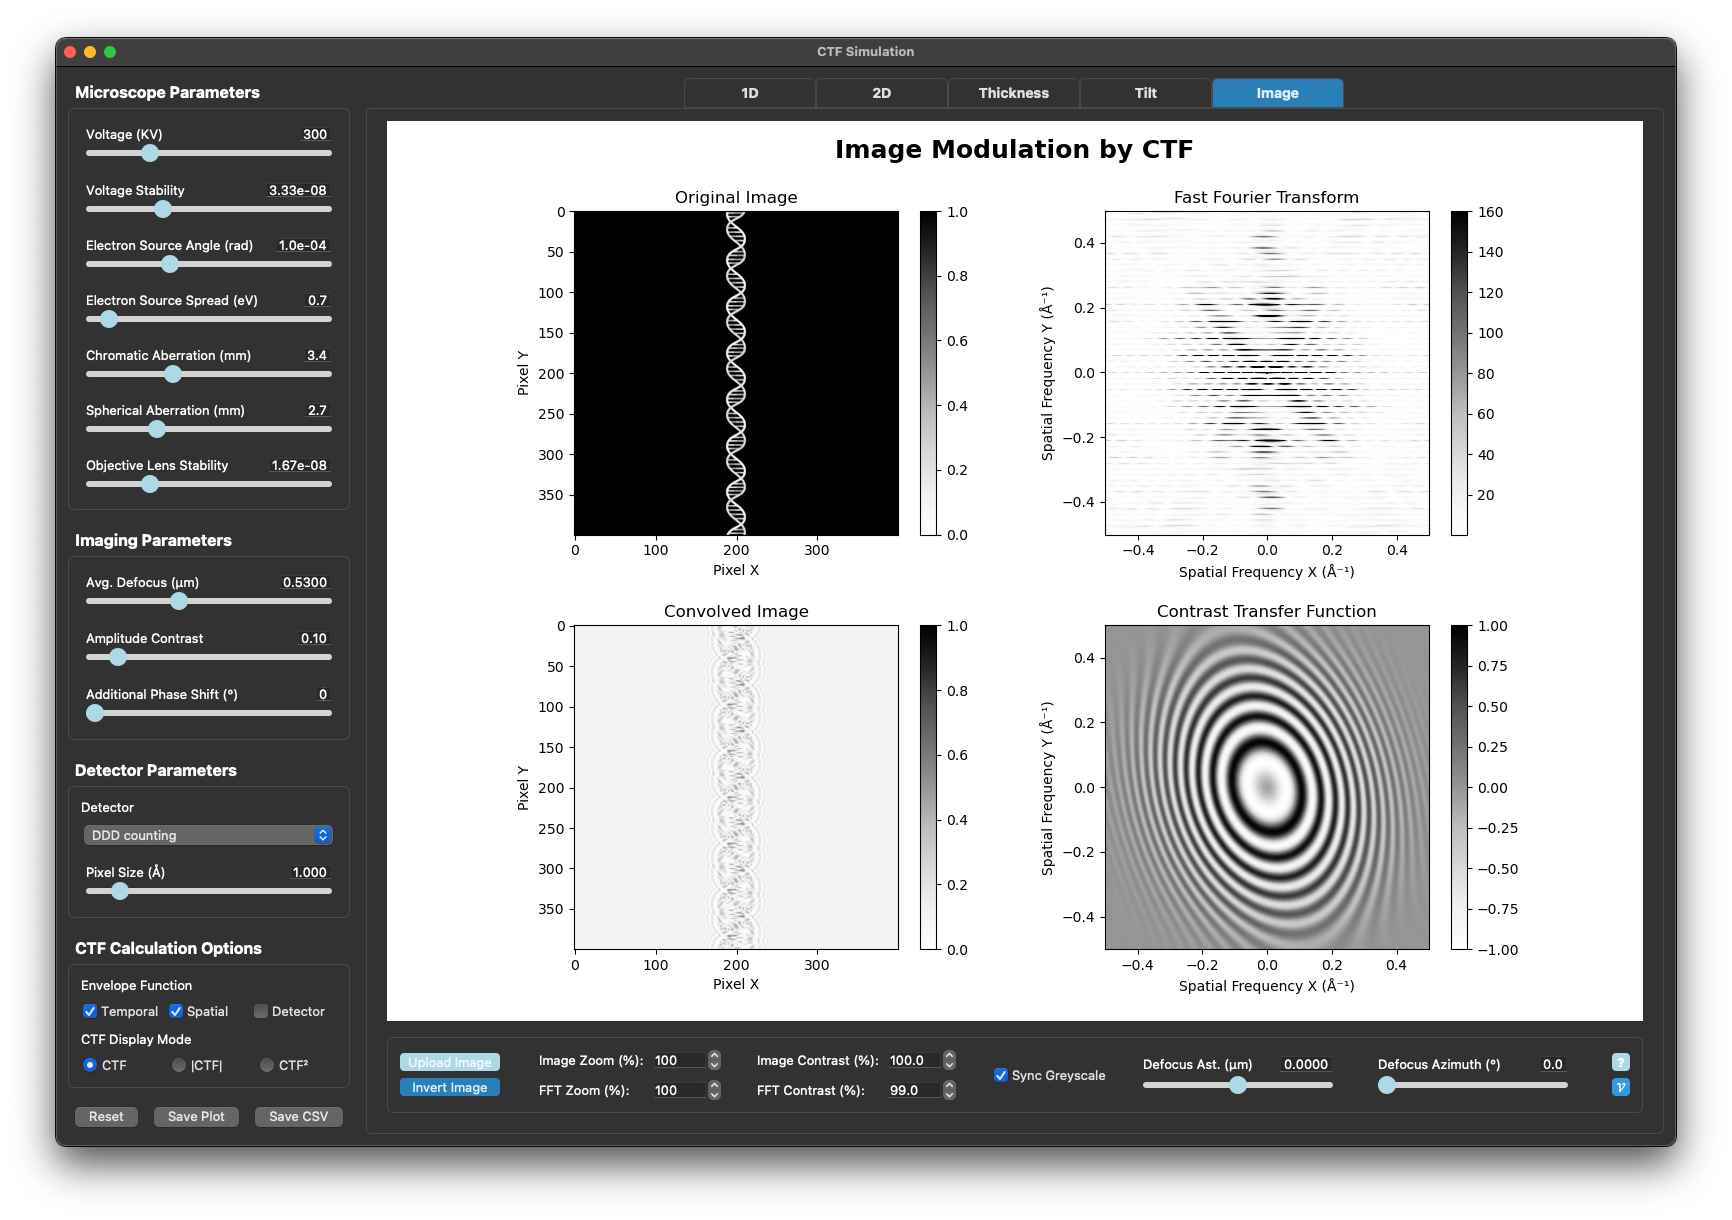
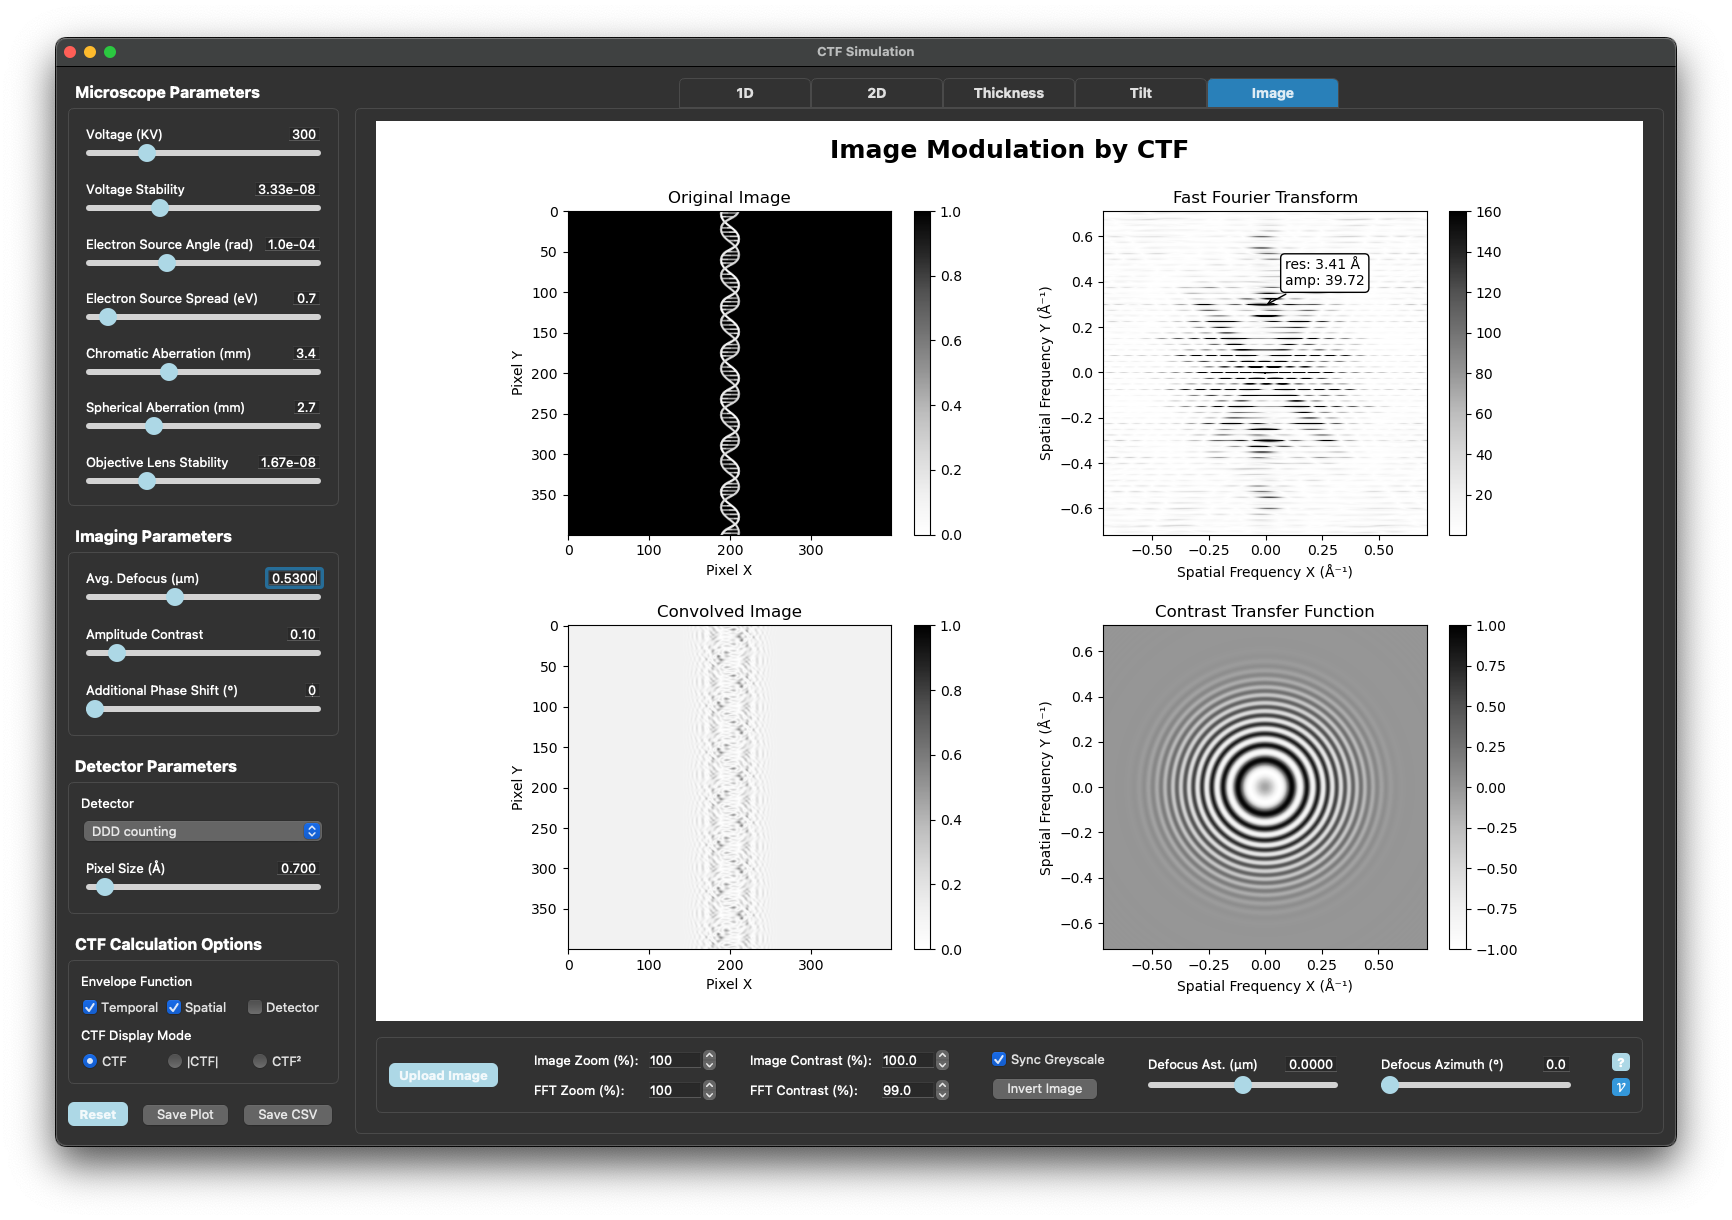
fix bugs and tweak gui

diff --git a/controller.py b/controller.py
@@ -336,76 +336,47 @@ class AppController(CTFSimGUI):
         self.canvas_image.fig.suptitle("Image Modulation by CTF", fontsize=18, fontweight='bold')
         self.canvas_image.fig.subplots_adjust(hspace=0.28, top=0.9, bottom=0.08)
 
-        # read and display default image
-        self.image_data = imread(self.default_image)
-        self.image_original = self.canvas_image.axes[1].imshow(self.image_data, cmap='Greys')
-        self.canvas_image.axes[1].set_title("Original Image")
-        self.canvas_image.axes[1].set_xlabel("Pixel X")
-        self.canvas_image.axes[1].set_ylabel("Pixel Y")
+        # Load default image
+        self.image_data = self._load_and_prepare_image(self.default_image)
+        self.image_contrast_inverted = False  # initialize instance variable 
 
-        # display fft of the sample image
+        # FFT
         self.image_data_fft = np.fft.fftshift(np.fft.fft2(self.image_data))
         self.scaled_fft = np.abs(self.image_data_fft)
+
+        # CTF
+        ctf_matrix = self.ctf_2d.dampened_ctf_2d(self.fx, self.fy)
+        self.scaled_convolved = np.abs(np.fft.ifft2(self.image_data_fft * ctf_matrix))
+
+        # Setup axes
+        self.image_original = self.canvas_image.axes[1].imshow(self.image_data, cmap='Greys')
         vmin, vmax = np.percentile(self.scaled_fft,
                                    [100 - self.contrast_scale_fft.value(), self.contrast_scale_fft.value()])
-        self.image_fft = self.canvas_image.axes[2].imshow(self.scaled_fft,  
-                                         cmap='Greys', 
-                                         vmin=vmin, 
-                                         vmax=vmax,
-                                         origin='lower')
-        self.canvas_image.axes[2].set_title("Fast Fourier Transform")
-        self.canvas_image.axes[2].set_xlabel("Spatial Frequency X (Å⁻¹)")
-        self.canvas_image.axes[2].set_ylabel("Spatial Frequency Y (Å⁻¹)")
-        self.canvas_image.axes[2].set_autoscale_on(False)
+        self.image_fft = self.canvas_image.axes[2].imshow(self.scaled_fft, 
+                                                          vmin=vmin,
+                                                          vmax=vmax,
+                                                          cmap='Greys', 
+                                                          origin='lower')
+        self.image_ctf_convolve = self.canvas_image.axes[4].imshow(ctf_matrix, cmap='Greys', vmin=-1, vmax=1, origin='lower', extent=(-0.5, 0.5, -0.5, 0.5))
+        self.image_convolved = self.canvas_image.axes[3].imshow(self.scaled_convolved, cmap='Greys')
 
-        # display the 2D ctf function
-        ctf_matrix = self.ctf_2d.dampened_ctf_2d(self.fx, self.fy)
-        self.image_ctf_convolve = self.canvas_image.axes[4].imshow(
-            ctf_matrix, 
-            extent=(-0.5, 0.5, -0.5, 0.5), 
-            cmap='Greys', 
-            vmin=-1, 
-            vmax=1,
-            origin = 'lower',
-        )
+        # Add titles and labels
+        self.canvas_image.axes[1].set_title("Original Image")
+        self.canvas_image.axes[2].set_title("Fast Fourier Transform")
+        self.canvas_image.axes[3].set_title("Convolved Image")
         self.canvas_image.axes[4].set_title("Contrast Transfer Function")
-        self.canvas_image.axes[4].set_xlabel("Spatial Frequency X (Å⁻¹)")
-        self.canvas_image.axes[4].set_ylabel("Spatial Frequency Y (Å⁻¹)")
+
+        for i in [1, 2, 3, 4]:
+            self.canvas_image.axes[i].set_xlabel("Pixel X" if i in [1, 3] else "Spatial Frequency X (Å⁻¹)")
+            self.canvas_image.axes[i].set_ylabel("Pixel Y" if i in [1, 3] else "Spatial Frequency Y (Å⁻¹)")
+
+        # Colorbars
+        self.canvas_image.fig.colorbar(self.image_original, ax=self.canvas_image.axes[1])
+        self.canvas_image.fig.colorbar(self.image_fft, ax=self.canvas_image.axes[2])
+        self.canvas_image.fig.colorbar(self.image_convolved, ax=self.canvas_image.axes[3])
+        self.canvas_image.fig.colorbar(self.image_ctf_convolve, ax=self.canvas_image.axes[4])
 
         self._update_ticks_for_fft()
-
-        # display the convolved image
-        image_data_convolved = np.fft.ifft2(self.image_data_fft * ctf_matrix)
-        self.scaled_convolved = np.abs(image_data_convolved)
-        self.image_convolved = self.canvas_image.axes[3].imshow(self.scaled_convolved, cmap='Greys')#, vmin=vmin, vmax=vmax)
-        self.canvas_image.axes[3].set_title("Convolved Image")
-        self.canvas_image.axes[3].set_xlabel("Pixel X")
-        self.canvas_image.axes[3].set_ylabel("Pixel Y")
-
-        # setup scale bars
-        self.canvas_image.fig.colorbar(
-            self.image_original, 
-            ax=self.canvas_image.axes[1], 
-            orientation='vertical',  
-        )
-        self.canvas_image.fig.colorbar(
-            self.image_fft, 
-            ax=self.canvas_image.axes[2], 
-            orientation='vertical',  
-        )
-        self.canvas_image.fig.colorbar(
-            self.image_convolved, 
-            ax=self.canvas_image.axes[3], 
-            orientation='vertical',  
-        )
-        self.canvas_image.fig.colorbar(
-            self.image_ctf_convolve, 
-            ax=self.canvas_image.axes[4], 
-            orientation='vertical',  
-        )
-
-        # An instance varibale to control the contrast
-        self.image_contrast_inverted = False 
 
     def _setup_annotations(self):
         # An instance variable to control the annotation
@@ -833,6 +804,9 @@ class AppController(CTFSimGUI):
             elif value == 2:  # Ice tab
                 self.defocus_diff_slider_ice.set_value(self.ctf_2d.df_diff)
                 self.defocus_az_slider_ice.set_value(self.ctf_2d.df_az)
+            elif value == 4:  # Image tab
+                self.defocus_diff_slider_image.set_value(self.ctf_2d.df_diff)
+                self.defocus_az_slider_image.set_value(self.ctf_2d.df_az)
 
         self.update_plot()
 
@@ -1389,64 +1363,43 @@ class AppController(CTFSimGUI):
 
         # Apply the transformation
         self.sample_rect.set_transform(transform)
-    
-    def _handle_upload_image(self):
-        """
-        Open a file dialog for users to select an image file. Supports common formats (PNG, JPG, TIFF, etc.).
-        If the image is:
-        - Exactly 400x400: loads as-is.
-        - Smaller: pads the image with white pixels to reach 400x400.
-        - Larger: resizes the image to 400x400.
 
-        Converts all images to grayscale and updates the display in subplot 1.
+    def _handle_upload_image(self) -> None:
+        """
+        Process user supplied image and update the image tab. Supports common formats (PNG, JPG, TIFF, etc.).
         """
         supported_formats = "Image Files (*.png *.jpg *.jpeg *.tif *.tiff *.bmp);;All Files (*)"
         file_path, _ = QFileDialog.getOpenFileName(self, "Select Image", "", supported_formats)
 
         if not file_path:
-            return  # User cancelled
+            return
 
         try:
-            # Load and convert to grayscale
-            image = Image.open(file_path).convert("L")
-            
-
+            self.image_data = self._load_and_prepare_image(file_path)
         except Exception as e:
             QMessageBox.critical(self, "Image Load Error", f"Failed to load image:\n{str(e)}")
+            return
 
-        # reset scale widgets
+        # Reset sliders
         self.size_scale_image.setValue(100)
         self.size_scale_fft.setValue(100)
         self.contrast_scale_image.setValue(100)
         self.contrast_scale_fft.setValue(99)
 
-        # Crop to square centered on the image
-        width, height = image.size
-        crop_size = min(width, height)
-        left = (width - crop_size) // 2
-        upper = (height - crop_size) // 2
-        right = left + crop_size
-        lower = upper + crop_size
-        image_cropped = image.crop((left, upper, right, lower))
-
-        # Resize to self.image_size
-        image_resized = image_cropped.resize((self.image_size, self.image_size), Image.LANCZOS)
-
-        # Update plot and store image
-        self.image_data = np.array(image_resized) / 255.0
         self.image_data_fft = np.fft.fftshift(np.fft.fft2(self.image_data))
         self.scaled_fft = np.abs(self.image_data_fft)
+
         vmin, vmax = np.percentile(self.scaled_fft, 
-                                    [100 - self.contrast_scale_fft.value(), self.contrast_scale_fft.value()])
+                                [100 - self.contrast_scale_fft.value(), self.contrast_scale_fft.value()])
+
         self.image_original.set_data(self.image_data)
         self.image_fft.set_data(self.scaled_fft)
         self.image_fft.set_clim(vmin=vmin, vmax=vmax)
-        self._update_ticks_for_fft()       
 
+        self._update_ticks_for_fft()
         self.update_plot()
-        
 
-    def _update_ticks_for_fft(self):
+    def _update_ticks_for_fft(self) -> None:
         # Get tick positions and labels from the CTF plot
         xticks = self.canvas_image.axes[4].get_xticks()
         xticklabels = [label.get_text() for label in self.canvas_image.axes[4].get_xticklabels()]
@@ -1461,7 +1414,7 @@ class AppController(CTFSimGUI):
         self.canvas_image.axes[2].yaxis.set_major_locator(FixedLocator(ypos))
         self.canvas_image.axes[2].set_yticklabels(yticklabels)
 
-    def _invert_contrast(self):
+    def _invert_contrast(self) -> None:
         # Toggle the contrast state
         self.image_contrast_inverted = not self.image_contrast_inverted
         
@@ -1475,7 +1428,7 @@ class AppController(CTFSimGUI):
 
         self.canvas_image.draw_idle()
 
-    def _handle_annotation_toggle(self, checked):
+    def _handle_annotation_toggle(self, checked) -> None:
         self.show_annotation = checked  # Sync instance variable
 
         # Sync all buttons to this state
@@ -1486,6 +1439,29 @@ class AppController(CTFSimGUI):
                 btn.setChecked(checked)
                 btn.blockSignals(False)
 
+    def _load_and_prepare_image(self, path: str) -> np.ndarray:
+        """
+        Load an image, convert to grayscale, crop to square, resize to self.image_size, and normalize.
+
+        Args:
+            path (str): Path to the image file.
+
+        Returns:
+            np.ndarray: A (self.image_size x self.image_size) normalized grayscale image.
+        """
+        image = Image.open(path).convert("L")
+
+        width, height = image.size
+        crop_size = min(width, height)
+        left = (width - crop_size) // 2
+        upper = (height - crop_size) // 2
+        right = left + crop_size
+        lower = upper + crop_size
+        image = image.crop((left, upper, right, lower))
+        image = image.resize((self.image_size, self.image_size), Image.LANCZOS)
+    
+        return np.array(image) / 255.0
+
     def show_info(self) -> None:
         """Show additonal info for the specific tab
         """
@@ -1495,6 +1471,7 @@ class AppController(CTFSimGUI):
                     "<b>Notes:</b><br><br>"
                     "1) The controls on the left panel affect CTF calculations across all tabs.<br>"
                     "2) Tab-specific controls are located at the bottom of each tab.<br>"
+                    "3) Tabs '2D', 'Thickness', 'Image' share the same 2-D CTF model. <br>"
                     "3) The detector envelope models only the attenuation of the CTF at higher spatial frequencies due to the detector's DQE. "
                     "The actual impact of different detectors on image signal-to-noise ratio, based on varying DQE characteristics, is not simulated. "
                     "DQEs are modeled as polynomial functions of spatial frequency. <br><br>"

diff --git a/gui.py b/gui.py
@@ -11,7 +11,7 @@ from matplotlib.backends.backend_qt5agg import FigureCanvasQTAgg
 from matplotlib.figure import Figure
 from customized_widgets import LabeledSlider
 from models import DetectorConfigs
-from styles import LEFT_PANEL_QGROUPBOX_STYLE, RIGHT_PANEL_QGROUPBOX_STYLE, QTABWIDGET_STYLE, TAB_BUTTON_STYLE, INFO_BUTTON_STYLE
+from styles import LEFT_PANEL_QGROUPBOX_STYLE, RIGHT_PANEL_QGROUPBOX_STYLE, QTABWIDGET_STYLE, BUTTON_STYLE, INFO_BUTTON_STYLE
 
 
 class MplCanvas(FigureCanvasQTAgg):
@@ -250,6 +250,7 @@ class CTFSimGUI(QMainWindow):
 
         # Create buttons
         self.reset_button = QPushButton("Reset")
+        self.reset_button.setStyleSheet(BUTTON_STYLE)
         self.save_img_button = QPushButton("Save Plot")
         self.save_csv_button = QPushButton("Save CSV")
         
@@ -571,18 +572,7 @@ class CTFSimGUI(QMainWindow):
 
         # Create a button for uploading image
         self.upload_btn = QPushButton("Upload Image")
-        self.upload_btn.setFixedHeight(18)
-        self.upload_btn.setStyleSheet(TAB_BUTTON_STYLE)
-
-        # Create a button for contrast inversion
-        self.invert_btn = QPushButton("Invert Image")
-        self.invert_btn.setFixedHeight(18)
-        self.invert_btn.setStyleSheet(TAB_BUTTON_STYLE)
-
-        display_image_btn_group = QVBoxLayout()
-        display_image_btn_group.setSpacing(4)
-        display_image_btn_group.addWidget(self.upload_btn)
-        display_image_btn_group.addWidget(self.invert_btn)
+        self.upload_btn.setStyleSheet(BUTTON_STYLE)
         
         # Create spin boxes for size scaling 
         scale_image = QGridLayout()
@@ -636,17 +626,33 @@ class CTFSimGUI(QMainWindow):
 
         display_image = QHBoxLayout()
 
-        display_image.addLayout(display_image_btn_group)
+        display_image.addWidget(self.upload_btn)
         display_image.addStretch()
         display_image.addLayout(scale_image)
         display_image.addStretch()
         display_image.addLayout(contrast_image)
         display_image.addStretch()
 
+        # Create a checkbox for contrast sync
         self.contrast_sync_checkbox = QCheckBox("Sync Greyscale")
         self.contrast_sync_checkbox.setChecked(False)
+        self.contrast_sync_checkbox.setStyleSheet("""
+            QCheckBox {
+                padding: 0px 0px;
+            }
+        """)
         self.contrast_sync_checkbox.setToolTip("Synchronize greyscale between original and convolved images")
-        display_image.addWidget(self.contrast_sync_checkbox)
+        
+        # Create a button for contrast inversion
+        self.invert_btn = QPushButton("Invert Image")
+        self.invert_btn.setFixedHeight(26)
+        self.invert_btn.setToolTip("Invert greyscale of original and convolved images")
+
+        contrast_group = QVBoxLayout()
+        contrast_group.addWidget(self.contrast_sync_checkbox)
+        contrast_group.addWidget(self.invert_btn)        
+        
+        display_image.addLayout(contrast_group)
         display_image.addStretch()
                  
         display_image.addWidget(self.defocus_diff_slider_image)

diff --git a/styles.py b/styles.py
@@ -100,11 +100,12 @@ QTabBar::tab:selected {
 
 """
 
-TAB_BUTTON_STYLE = """
+BUTTON_STYLE = """
 QPushButton {
-    border-radius: 4px;
-    padding: 0px 8px;
+    border-radius: 6px;
+    padding: 4px 10px;
     background-color: lightblue;
+    font-weight: bold;
 }
 
 QPushButton:hover {
